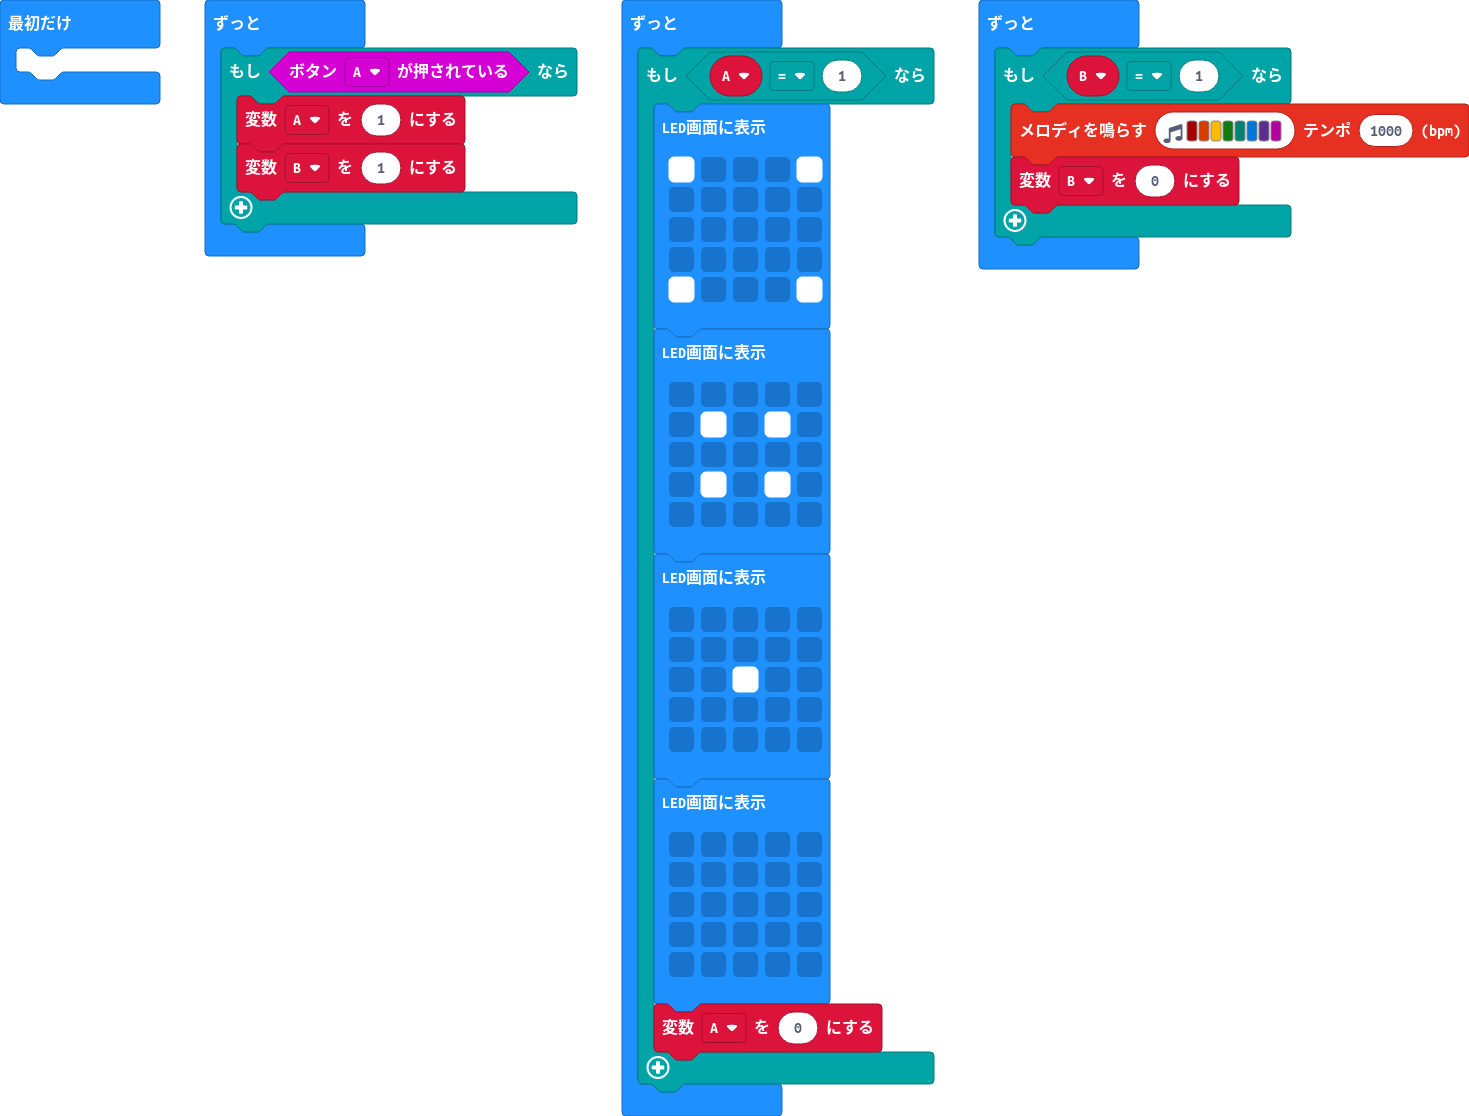
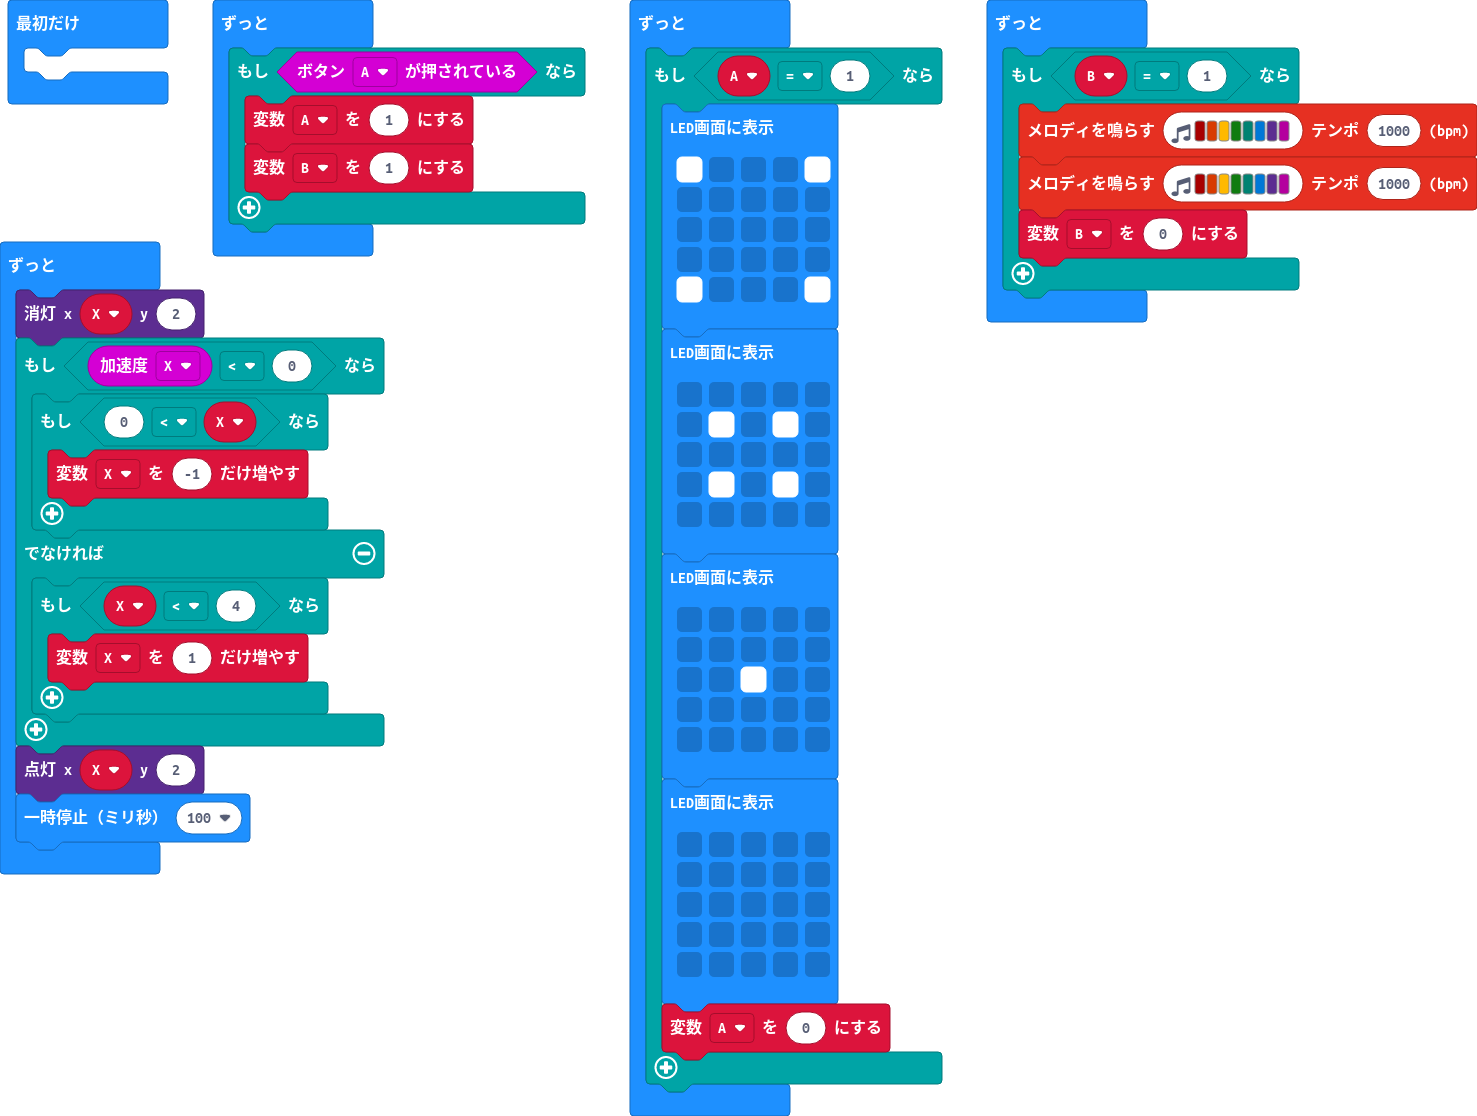
左右敵移動追加

diff --git a/main.ts b/main.ts
@@ -1,5 +1,6 @@
 let A = 0
 let B = 0
+let X = 0
 basic.forever(function () {
     if (input.buttonIsPressed(Button.A)) {
         A = 1
@@ -42,6 +43,21 @@ basic.forever(function () {
 basic.forever(function () {
     if (B == 1) {
         music.playMelody("C5 B A G F E D C ", 1000)
+        music.playMelody("C5 B A G F E D C ", 1000)
         B = 0
     }
+})
+basic.forever(function () {
+    led.unplot(X, 2)
+    if (input.acceleration(Dimension.X) < 0) {
+        if (0 < X) {
+            X += -1
+        }
+    } else {
+        if (X < 4) {
+            X += 1
+        }
+    }
+    led.plot(X, 2)
+    basic.pause(100)
 })

diff --git a/main.py b/main.py
@@ -1,5 +1,6 @@
 A = 0
 B = 0
+X = 0
 
 def on_forever():
     global A, B
@@ -19,16 +20,9 @@ def on_forever2():
                         # . . . #
         """)
         basic.show_leds("""
-            # . . . #
-                        . # . # .
-                        . . . . .
-                        . # . # .
-                        # . . . #
-        """)
-        basic.show_leds("""
             . . . . .
                         . # . # .
-                        . . # . .
+                        . . . . .
                         . # . # .
                         . . . . .
         """)
@@ -36,6 +30,13 @@ def on_forever2():
             . . . . .
                         . . . . .
                         . . # . .
+                        . . . . .
+                        . . . . .
+        """)
+        basic.show_leds("""
+            . . . . .
+                        . . . . .
+                        . . . . .
                         . . . . .
                         . . . . .
         """)
@@ -46,5 +47,15 @@ def on_forever3():
     global B
     if B == 1:
         music.play_melody("C5 B A G F E D C ", 1000)
+        music.play_melody("C5 B A G F E D C ", 1000)
         B = 0
 basic.forever(on_forever3)
+
+def on_forever4():
+    global X
+    if input.acceleration(Dimension.X) < 0:
+        X += -1
+    else:
+        X += 1
+        led.plot(X, 0)
+basic.forever(on_forever4)
